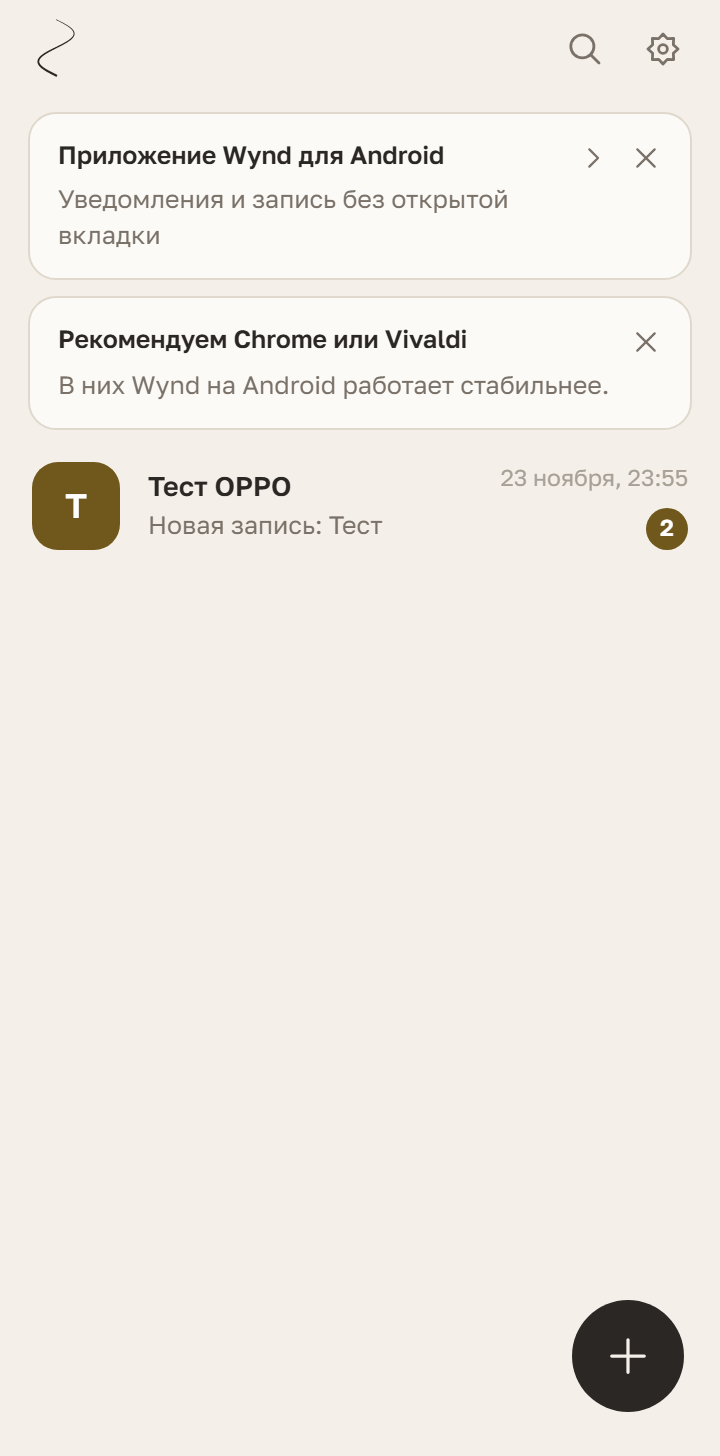
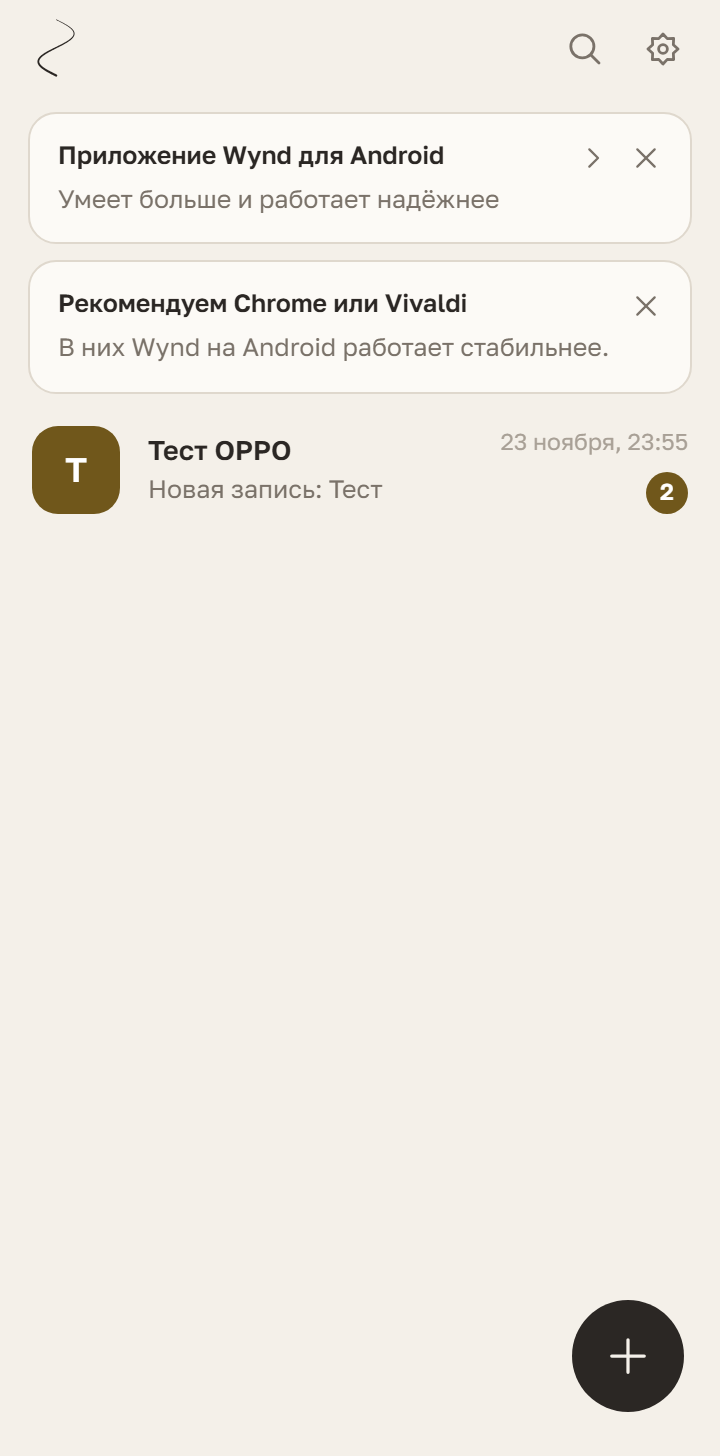
План 73: баннер про приложение — «Умеет больше и работает надёжнее»
Владелец 26.11: прежняя строка «Уведомления и запись без открытой
вкладки» — «фигня какая-то»; нужно про больше возможностей и стабильную
работу. Новая строка не повторяет слово «стабильнее» из подсказки про
браузер, которая стоит сразу ниже.

Кадр улочки переснят (360 × 728 DPR 2, Firefox на Android, круг
«Тест OPPO» с wynd2); страница установки без изменений.

diff --git a/web/src/routes/circles/+page.svelte b/web/src/routes/circles/+page.svelte
@@ -645,7 +645,7 @@
 			{#if appHint && !empty}
 				<NewsBanner
 					title="Приложение Wynd для Android"
-					text="Уведомления и запись без открытой вкладки"
+					text="Умеет больше и работает надёжнее"
 					onclick={() => goto('/app')}
 					ondismiss={hideAppHint}
 				/>

diff --git a/docs/plans/73-android-app-banner.plan.md b/docs/plans/73-android-app-banner.plan.md
@@ -13,7 +13,7 @@
 ## Что сделано
 
 - `web/src/lib/session/appHint.ts` — показ и закрытие баннера: Android в строке браузера, без моста приложения, отметка на устройстве (`wynd:android-app-hint-closed`), как у подсказки про браузер. Тесты `appHint.test.ts` (4): браузер и PWA, окно Wynd, компьютер и iPhone, крестик.
-- Баннер на улочке над списком кругов (`web/src/routes/circles/+page.svelte`) тем же видом, что «Что нового?» (7.7): `title` «Приложение Wynd для Android», `text` «Уведомления и запись без открытой вкладки», шеврон и крестик. `NewsBanner` получил необязательный `version` — свой текст без версии (тот же баннер уже так использовался для обновления Android).
+- Баннер на улочке над списком кругов (`web/src/routes/circles/+page.svelte`) тем же видом, что «Что нового?» (7.7): `title` «Приложение Wynd для Android», `text` «Умеет больше и работает надёжнее», шеврон и крестик. `NewsBanner` получил необязательный `version` — свой текст без версии (тот же баннер уже так использовался для обновления Android).
 - Страница установки `/app` (`web/src/routes/app/+page.svelte`): шапка 48, вступление, «Что даёт» (уведомления; записи в фоне; видео сжимается на телефоне), «Установка» (скачать и открыть; разрешить установку), главная кнопка «Скачать приложение», вход после установки.
 - `web/src/lib/android/appRelease.ts` — адрес файла в момент нажатия: последний опубликованный выпуск `android-v*` с подписанным `wynd-android.apk` (`api.github.com`, 6 с ожидания). GitHub недоступен — открывается страница выпусков Android. Тесты `appRelease.test.ts` (5): самый новый по номеру, черновики и предварительные, выпуск без подписанного файла, отказ сети.
 - Проверено живым запросом из страницы: `api.github.com` отвечает из клиента, последний выпуск — 0.1.5, ссылка на `wynd-android.apk`.
